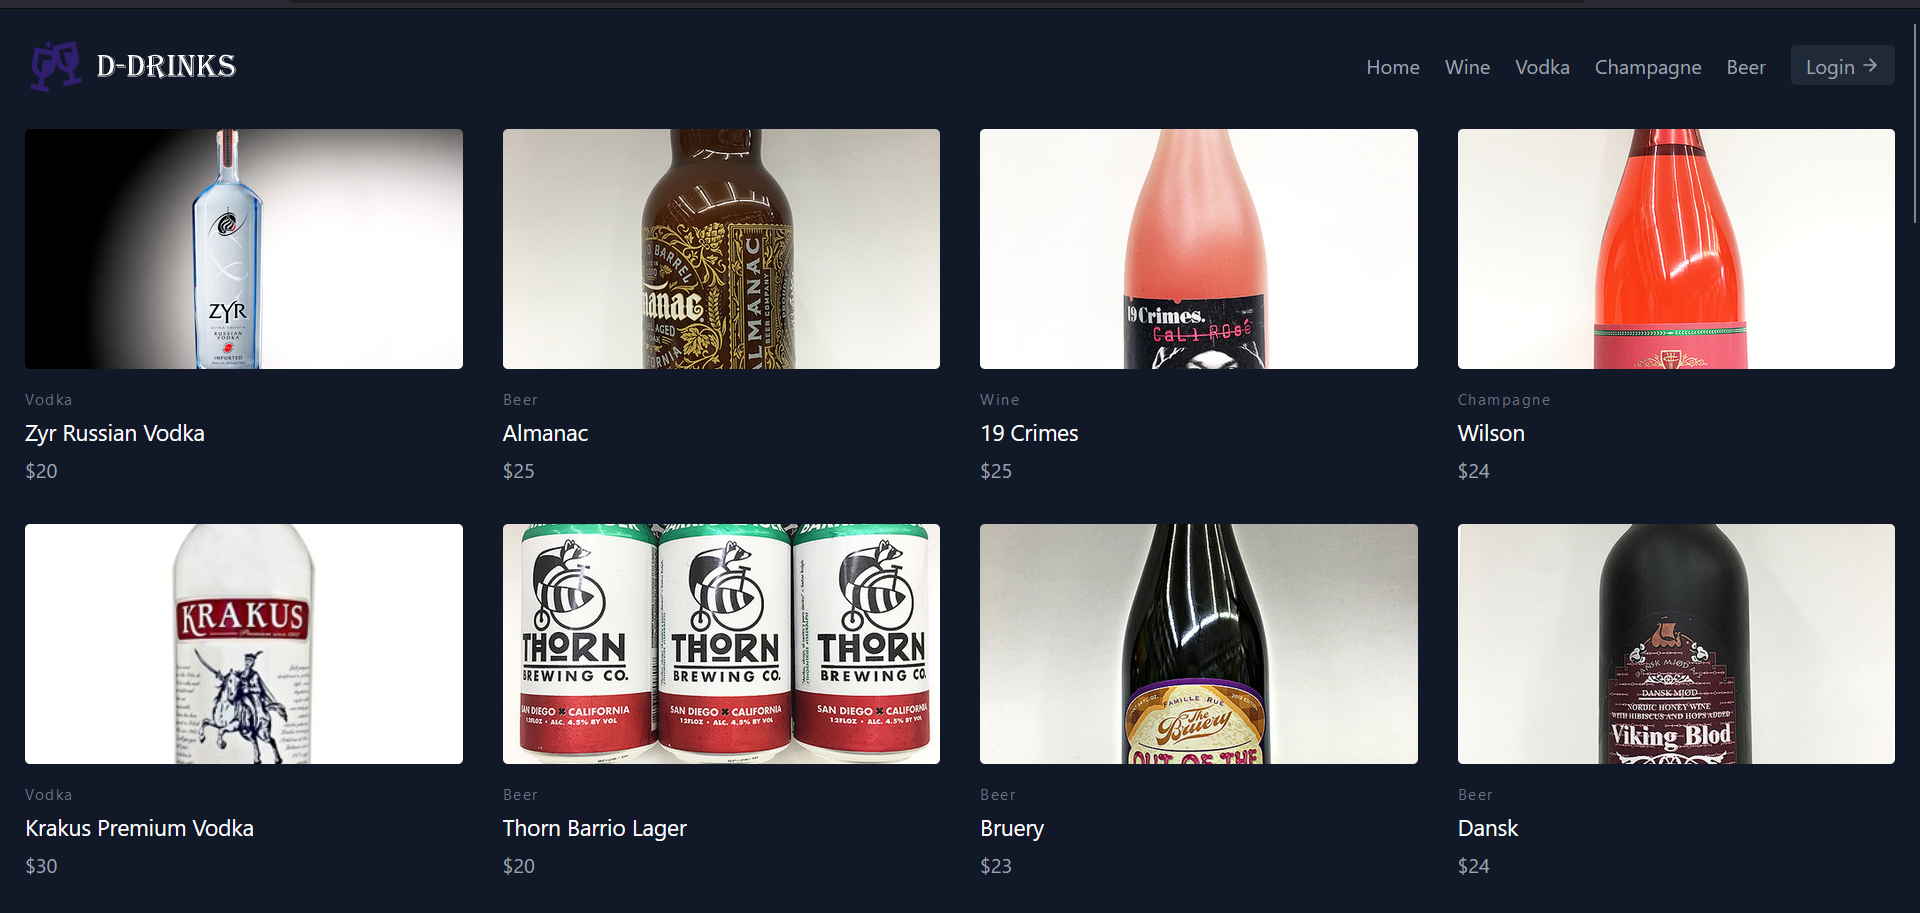
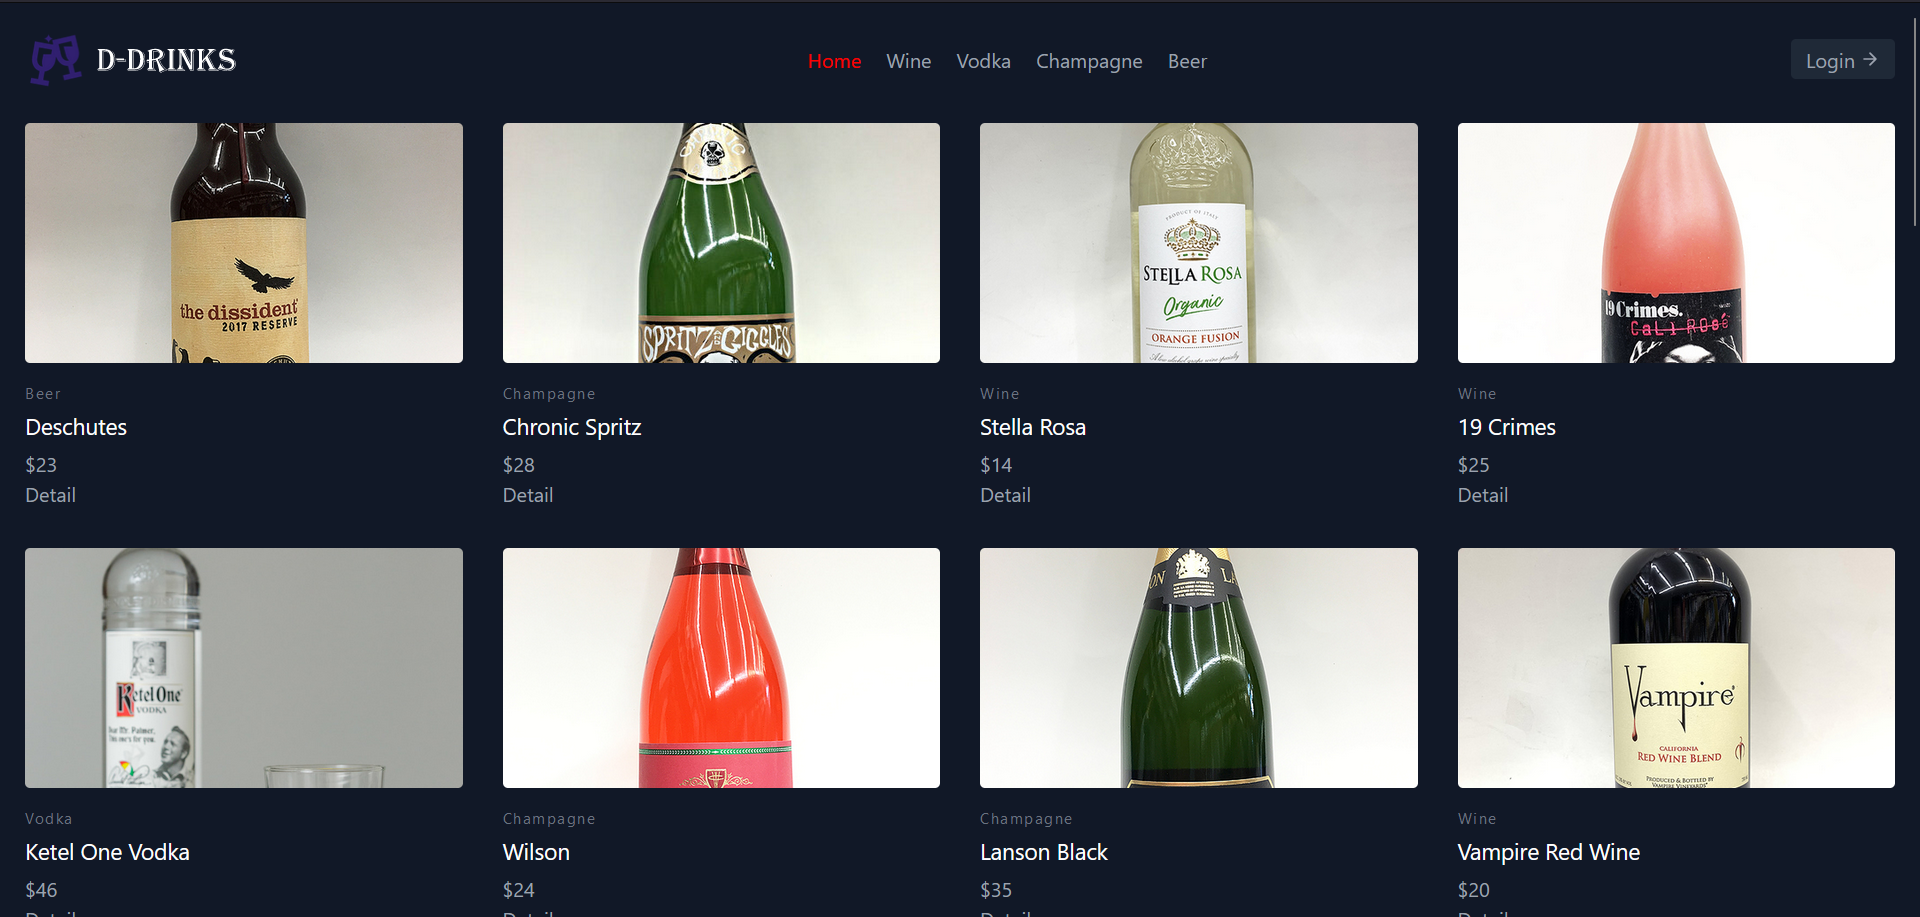
Added some style and pic

diff --git a/templetes/DemoApp/nav.html b/templetes/DemoApp/nav.html
@@ -1,3 +1,11 @@
+{% url 'home' as home_url %}
+{% url 'wine' as wine_url %}
+{% url 'vodka' as vodka_url %}
+{% url 'champagne' as champagne_url %}
+{% url 'beer' as beer_url %}
+{% url 'profile' as profile_url %}
+
+
 <html lang="en">
 <head>
     <meta charset="UTF-8">
@@ -5,6 +13,11 @@
     <meta name="viewport" content="width=device-width, initial-scale=1.0">
     <title>Navigation</title>
     <script src="https://cdn.tailwindcss.com"></script>
+    <style>
+      .active{
+        color: red;
+      }
+    </style>
 </head>
 <body>
     <header class="text-gray-400 bg-gray-900 body-font relative overflow-auto">
@@ -14,13 +27,13 @@
            <img src="{% static '/images/logo.svg' %}" width="179" height="50" alt="LOGO">
           </a>
           <nav class="md:ml-auto md:mr-auto flex  items-center text-base justify-center">
-            <a href="/" class="mr-5 hover:text-white">Home</a>
-            <a href="/wine" class="mr-5 hover:text-white">Wine</a>
-            <a href="/vodka" class="mr-5 hover:text-white">Vodka</a>
-            <a href="/champagne" class="mr-5 hover:text-white">Champagne</a>
-            <a href="/beer" class="mr-5 hover:text-white">Beer</a>
+            <a href="/" class="{% if request.path == home_url %} active {% endif %} mr-5 hover:text-white">Home</a>
+            <a href="/wine" class="{% if request.path == wine_url %} active {% endif %} mr-5 hover:text-white">Wine</a>
+            <a href="/vodka" class="{% if request.path == vodka_url %} active {% endif %} mr-5 hover:text-white">Vodka</a>
+            <a href="/champagne" class="{% if request.path == champagne_url %} active {% endif %} mr-5 hover:text-white">Champagne</a>
+            <a href="/beer" class="{% if request.path == beer_url %} active {% endif %} mr-5 hover:text-white">Beer</a>
             {% if user.is_authenticated %}
-            <a href="/profile" class="mr-5 text-red-400 hover:text-white">{{username.capitalize}}</a>
+            <a href="/profile" class="{% if request.path == profile_url %} active {% endif %} mr-5 text-red-400 hover:text-white">{{username.capitalize}}</a>
             {% endif %}
           </nav>
           {% if user.is_authenticated %}

diff --git a/Demo/urls.py b/Demo/urls.py
@@ -28,16 +28,16 @@ admin.site.index_title = "Admin"
 
 urlpatterns = [
     path('admin/', admin.site.urls),
-    path('wine/', wine),
-    path('vodka/', vodka),
-    path('champagne/', champagne),
-    path('beer/', beer),
-    path('', temp),
+    path('wine/', wine, name='wine'),
+    path('vodka/', vodka, name='vodka'),
+    path('champagne/', champagne, name='champagne'),
+    path('beer/', beer, name='beer'),
+    path('', temp, name='home'),
     path('detail/<int:product_id>/<str:product_name>', details, name='details'),
     path('signUp/',signUp),
     path('logIn/',logIn),
     path('logOut/',logOut),
-    path('profile/',profile)
+    path('profile/',profile, name='profile')
 
 ]
 

diff --git a/README.md b/README.md
@@ -21,7 +21,13 @@ Run Demo
 ```
 ## Screenshots
 
-![Project Screenshots](/static/images/ProjectPic.png?raw=true "Optional Title")
+![Project Screenshots](/static/images/ProjectPic.png?raw=true "Home")
+![Project Screenshots](/static/images/ProjectPic1.png?raw=true "Wine")
+![Project Screenshots](/static/images/ProjectPic2.png?raw=true "Vodka")
+![Project Screenshots](/static/images/ProjectPic3.png?raw=true "Champagne")
+![Project Screenshots](/static/images/ProjectPic4.png?raw=true "Beer")
+![Project Screenshots](/static/images/LoginPic.png?raw=true "Login")
+![Project Screenshots](/static/images/SigninPic.png?raw=true "SignIn")
 
 
 ## Author
